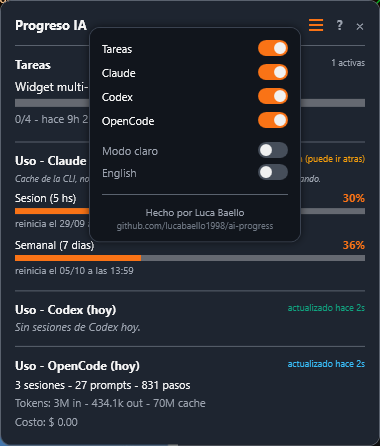
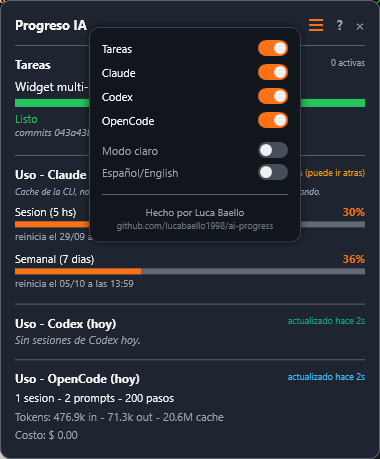
Menu: la fila de idioma dice Espanol/English

diff --git a/ai-progress-gtk.py b/ai-progress-gtk.py
@@ -99,7 +99,7 @@ TXT = {
                 'en': '· OpenCode: runs `opencode stats --days 0 --json` every 60 seconds.'},
     'ayuda_5': {'es': '· Otros modelos: se agregan en config.json -> customProviders, con un comando CLI (command + args) o un archivo JSON (file). Pueden devolver (todo opcional): sessions, prompts, steps, tokens {input, output, cache}, cost.',
                 'en': '· Other models: add them in config.json -> customProviders, with a CLI command (command + args) or a JSON file (file). They can return (all optional): sessions, prompts, steps, tokens {input, output, cache}, cost.'},
-    'ayuda_6': {'es': '· El menu hamburguesa de arriba (a la derecha) abre un popup con switchs para prender y apagar cada seccion, el switch "Modo claro" para cambiar el tema y el switch "English" para pasar la interfaz a ingles; todo se guarda en config.json. Al final del popup esta la leyenda del autor.',
+    'ayuda_6': {'es': '· El menu hamburguesa de arriba (a la derecha) abre un popup con switchs para prender y apagar cada seccion, el switch "Modo claro" para cambiar el tema y el switch "Español/English" para pasar la interfaz a ingles; todo se guarda en config.json. Al final del popup esta la leyenda del autor.',
                 'en': '· The hamburger menu above (right side) opens a popup with switches to turn each section on/off, the "Light mode" switch to change the theme and the language switch to switch between Spanish and English; everything is saved in config.json. The author credit is at the bottom of the popup.'},
     'ayuda_7': {'es': '· Todo es local: el widget no manda nada a ninguna API; solo lee archivos y corre CLIs ya instalados.',
                 'en': '· Everything is local: the widget sends nothing to any API; it only reads files and runs already installed CLIs.'},
@@ -1103,7 +1103,7 @@ class Widget:
             caja.pack_start(self.fila_menu(sid, nombre, bool(self.cfg['sections'].get(sid, True))), False, False, 2)
         caja.pack_start(Gtk.Separator(orientation=Gtk.Orientation.HORIZONTAL), False, False, 8)
         caja.pack_start(self.fila_menu('theme', T('modo_claro'), self.cfg['theme'] == 'light'), False, False, 2)
-        caja.pack_start(self.fila_menu('language', 'English', IDIOMA == 'en'), False, False, 2)
+        caja.pack_start(self.fila_menu('language', 'Español/English', IDIOMA == 'en'), False, False, 2)
         caja.pack_start(Gtk.Separator(orientation=Gtk.Orientation.HORIZONTAL), False, False, 8)
         leyenda = Gtk.Label(label=T('leyenda'))
         leyenda.get_style_context().add_class('dimchico')

diff --git a/README.md b/README.md
@@ -16,7 +16,7 @@ Widget flotante para **Windows y Linux** que muestra, siempre visible arriba a l
 
 El **menú hamburguesa** (arriba a la derecha) abre un **popup flotante** — con fondo y borde
 propios, no empuja el contenido — con *switchs* para prender/apagar cada sección, el switch **Modo claro**
-(tema claro/oscuro) y el switch **English** (idioma de la interfaz); todo se guarda en `config.json`.
+(tema claro/oscuro) y el switch **Español/English** (idioma de la interfaz); todo se guarda en `config.json`.
 El botón **?** muestra la explicación de cómo funciona dentro del propio widget, y al pie del popup
 está la leyenda del autor.
 
@@ -34,7 +34,7 @@ Modo claro (switch **Modo claro** del menú):
 
 ![modo claro](docs/screenshot-claro.png)
 
-En inglés (switch **English** del menú):
+En inglés (switch **Español/English** del menú):
 
 ![interfaz en inglés](docs/screenshot-en.png)
 
@@ -115,7 +115,7 @@ La interfaz está en **español e inglés**. Se elige con `language` en `config.
   cualquier otro caso.
 - `"es"` / `"en"`: fija el idioma.
 
-El switch **English** del menú lo cambia en caliente y lo guarda (`es`/`en`). Para volver a `auto`,
+El switch **Español/English** del menú lo cambia en caliente y lo guarda (`es`/`en`). Para volver a `auto`,
 editá `config.json`. En la versión Linux también se puede forzar con `--lang en` sin tocar el archivo.
 
 ## Configuración (`config.json`)
